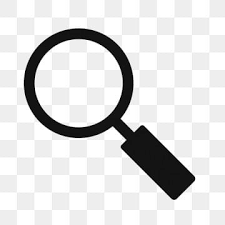
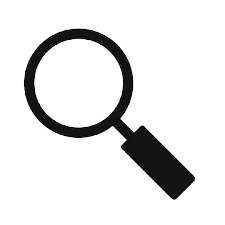
fix:nearUserLoc-ADDicon-liveLoc

diff --git a/assets/css/styles.css b/assets/css/styles.css
@@ -236,11 +236,26 @@ img.showAllLoc {
     border-radius: 30px;
     box-shadow: 1px 2px 13px #777;
 }
+img.nearUserLoc{
+    position: fixed;
+    bottom: 140px;
+    left: 20px;
+    z-index: 999;
+    width: 32px;
+    background: rgba(69, 117, 189, 0.8);
+    padding: 7px;
+    border-radius: 30px;
+    box-shadow: 1px 2px 13px #777;
+}
+
+img.nearUserLoc:hover {
+    cursor: pointer;
+    opacity: 0.7;
+}
 img.showAllLoc:hover {
     cursor: pointer;
     opacity: 0.7;
 }
-
 img.currentLoc:hover {
     cursor: pointer;
     opacity: 0.7;

diff --git a/template/tpl-index.php b/template/tpl-index.php
@@ -25,8 +25,9 @@
         <div class="mapContainer">
             <div id="map"></div>
         </div>
+        <img src="assets/img/nearLocation.png" id="find-locations" class="nearUserLoc">
         <img src="assets/img/finder.png" id="showAllLocations" class="showAllLoc">
-        <img src="assets/img/current.png" id="find-locations" class="currentLoc">
+        <img src="assets/img/current.png" class="currentLoc">
     </div>
 
 
@@ -86,51 +87,9 @@
 
 
     
-    <script src="assets/js/jquery.min.js"></script>
+    <script src="https://code.jquery.com/jquery-3.6.0.min.js"></script>
     <script src="assets/js/main.js<?="?v=" . rand(1010,100000) ?>"></script>
     <script>
-
-
-            document.getElementById('find-locations').addEventListener('click', () => {
-                // مکانیابی کاربر
-                navigator.geolocation.getCurrentPosition((position) => {
-                    const userLat = position.coords.latitude; // عرض جغرافیایی کاربر
-                    const userLng = position.coords.longitude; // طول جغرافیایی کاربر
-                    
-                    // شعاع جستجو (10 کیلومتر)
-                    const radius = 10;
-
-                    // نمایش مکان فعلی کاربر روی نقشه
-                    const userLocationMarker = L.marker([userLat, userLng]).addTo(map);
-                    userLocationMarker.bindPopup('Your Location').openPopup();
-
-                    
-                    
-                    // ارسال مختصات و شعاع به سرور
-                    fetch('<?= MAP_URL . 'process/get_locations.php' ?>', {
-                        method: 'POST',
-                        headers: { 'Content-Type': 'application/json' },
-                        body: JSON.stringify({
-                            latitude: userLat,
-                            longitude: userLng,
-                            radius: radius
-                        })
-                    })
-                    .then((response) => response.json())
-                    .then((locations) => {
-                        console.log('Nearby Locations:', locations);
-                        // مکانهای نزدیک را روی نقشه نمایش دهید
-                        locations.forEach((location) => {
-                            const marker = L.marker([location.lat, location.lng]).addTo(map);
-                            marker.bindPopup(location.title).openPopup();
-                        });
-                    })
-                    .catch((error) => console.error('Error fetching locations:', error));
-                });
-            });
-
-
-
         document.getElementById('showAllLocations').addEventListener('click', () => {
             // Function to fetch and display markers
             function fetchMarkers(bounds) {
@@ -177,14 +136,57 @@
         });
         
 
-
-
-
         <?php if($location): ?>
             L.marker([<?= $location->lat; ?>,<?= $location->lng; ?>]).addTo(map)
             .bindPopup("<?=$location->title; ?>").openPopup();
         <?php endif; ?>
         $(document).ready(function(){
+
+            
+            // اتصال فانکشن به کلیک روی دکمه یا تصویر
+            $('#find-locations').on('click', function () {
+                // مکانیابی کاربر
+                if (navigator.geolocation) {
+                    navigator.geolocation.getCurrentPosition(function (position) {
+                        const userLat = position.coords.latitude; // عرض جغرافیایی کاربر
+                        const userLng = position.coords.longitude; // طول جغرافیایی کاربر
+                        
+                        // شعاع جستجو (10 کیلومتر)
+                        const radius = 10;
+
+                        // نمایش مکان فعلی کاربر روی نقشه
+                        const userLocationMarker = L.marker([userLat, userLng]).addTo(map);
+                        userLocationMarker.bindPopup('Your Location').openPopup();
+
+                        // ارسال مختصات و شعاع به سرور با jQuery AJAX
+                        $.ajax({
+                            url: '<?= MAP_URL . 'process/get_locations.php' ?>', // فایل سرور برای دریافت مکانهای نزدیک
+                            method: 'POST',
+                            dataType: 'json',
+                            contentType: 'application/json',
+                            data: JSON.stringify({
+                                latitude: userLat,
+                                longitude: userLng,
+                                radius: radius
+                            }),
+                            success: function (locations) {
+                                console.log('Nearby Locations:', locations);
+                                // نمایش مکانهای نزدیک روی نقشه
+                                locations.forEach(function (location) {
+                                    const marker = L.marker([location.lat, location.lng]).addTo(map);
+                                    marker.bindPopup(location.title);
+                                });
+                            },
+                            error: function (xhr, status, error) {
+                                console.error('Error fetching locations:', error);
+                            }
+                        });
+                    });
+                } else {
+                    alert('Geolocation is not supported by this browser.');
+                }
+            });
+
             $("#search").keyup(function(e){
                 const input = $(this);
                 const titleSearch = input.val();
@@ -202,9 +204,14 @@
                         }
                     });
             });
-            // $("img.currentLoc").click(function(){
-            //     locate();
-            // });
+
+            $("img.currentLoc").click(function(){
+                locate();
+            });
+
+
+
+
         });
     </script>
 </body>

diff --git a/process/get_locations.php b/process/get_locations.php
@@ -1,23 +1,31 @@
 <?php 
 include "../bootstrap/init.php";
 
+// تنظیم هدر برای JSON
+header('Content-Type: application/json');
 
-if ($_SERVER['REQUEST_METHOD'] === 'POST') {
-    header('Content-Type: application/json');
-    echo "OK";
-    // دریافت دادههای JSON ارسال شده از کلاینت
-    $input = json_decode(file_get_contents('php://input'), true);
+// دریافت دادههای JSON از کلاینت
+$input = json_decode(file_get_contents('php://input'), true);
 
-    $latitude = $input['latitude'];
-    $longitude = $input['longitude'];
-    $radius = $input['radius']; // شعاع جستجو به کیلومتر
+if (!$input || !isset($input['latitude']) || !isset($input['longitude']) || !isset($input['radius'])) {
+    echo json_encode(['error' => 'Invalid input data']);
+    http_response_code(400);
+    exit;
+}
 
-    // شامل کردن فایل فانکشن برای جستجوی مکانها
-    include 'functions.php';
+// مختصات و شعاع جستجو
+$latitude = $input['latitude'];
+$longitude = $input['longitude'];
+$radius = $input['radius'];
 
-    // فراخوانی فانکشن برای دریافت مکانها از دیتابیس
+try {
+    // فراخوانی فانکشن و دریافت مکانهای نزدیک
     $locations = getNearbyLocations($latitude, $longitude, $radius);
 
-    // بازگشت نتایج بهصورت JSON
+    // بازگشت دادهها به صورت JSON
     echo json_encode($locations);
+} catch (Exception $e) {
+    // مدیریت خطاها
+    http_response_code(500);
+    echo json_encode(['error' => $e->getMessage()]);
 }
